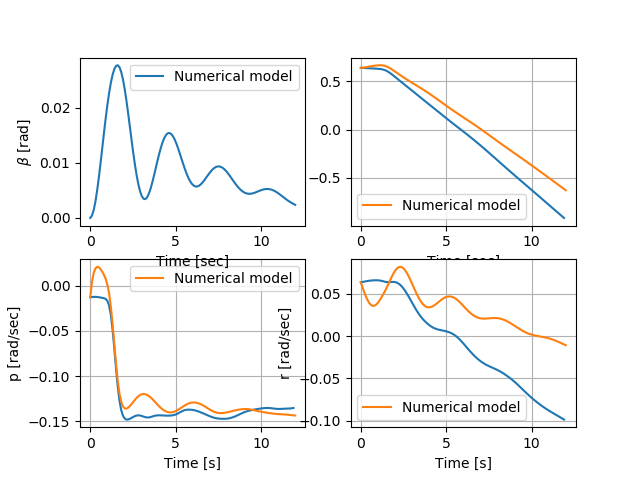
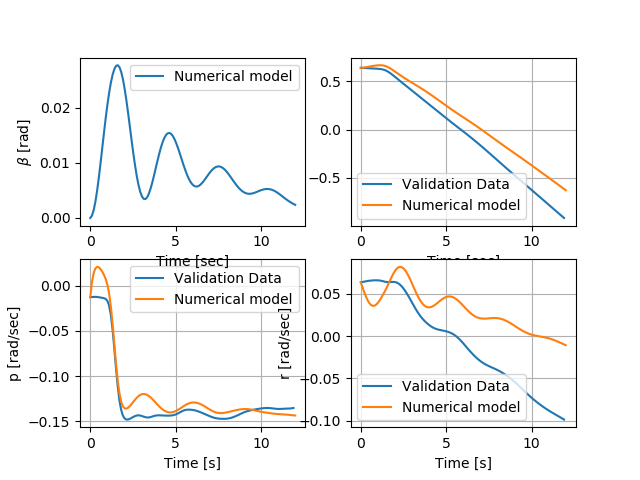
asd

Changed region(s): [[0.2188, 0.5625, 0.4688, 0.6562], [0.5625, 0.3438, 0.8438, 0.4062], [0.5625, 0.7812, 0.8438, 0.8438]]

diff --git a/Simulation/statespace_asym.py b/Simulation/statespace_asym.py
@@ -7,7 +7,7 @@ import control.matlab as ml
 import matplotlib.pyplot as plt
 #from FD_CLCD import *
 from scipy import signal
-
+from flight_data_plots import *
 
 #delta_a = 1.
 #delta_r = 1.
@@ -42,36 +42,41 @@ sys_asym = signal.StateSpace(A_asym, B_asym, C_asym, D_asym)
 sys_asym2 = ml.ss(A_asym, B_asym, C_asym, D_asym)
 #print (sys_asym)
 
-t = np.linspace(0., 15, 150)
+t = np.linspace(0., 12, 120)
 u = np.zeros((len(t),2))
 for i in range (10):
     u[i,1] = 0.025
     u[i,0] = 0.
+u = np.column_stack((delta_a_input_aperiodic, delta_r_input_aperiodic))
 z,x,c = ml.lsim(sys_asym2, u, t)
-
+X0 = np.array([[0],[roll_angle_d1[lst_element[0]]],[body_roll_rate_d1[lst_element[0]]],[body_yaw_rate_d1[lst_element[0]]]])
+z =  z*-1
 #yout, T = ml.impulse(sys_sym2)
 
 plt.subplot(2, 2, 1)
-plt.plot(t, (z[:,0]))
+plt.plot(t, (z[:,0]), label='Numerical model')
 plt.xlabel('Time [sec]')
 plt.ylabel(r'$\beta$ [rad]')
+plt.legend()
 
 plt.subplot(2, 2, 2)
-plt.plot(t, (z[:,1]))
+plt.plot(t, (z[:,1]+X0[1]), label='Numerical model')
 plt.xlabel('Time [sec]')
 plt.ylabel(r'$\varphi$ [rad]')
+plt.legend()
 
 plt.subplot(2, 2, 3)
-plt.plot(t, (z[:,2]))
+plt.plot(t, (z[:,2]+X0[2]), label='Numerical model')
 plt.xlabel('Time [s]')
 plt.ylabel('p [rad/sec]')
+plt.legend()
 
 plt.subplot(2, 2, 4)
-plt.plot(t, (z[:,3]))
+plt.plot(t, (z[:,3]+X0[3]), label='Numerical model')
 plt.xlabel('Time [s]')
 plt.ylabel('r [rad/sec]')
-
+plt.legend()
 
 
 plt.show()
-plt.savefig('asym.png')
+plt.savefig('asym-aperiodic.png')

diff --git a/Simulation/Cit_par_updated.py b/Simulation/Cit_par_updated.py
@@ -2,7 +2,7 @@
 from math import *
 # xcg = 0.25 * c
 from FD_CLCD import e, CD0, CLa, CL, CD #For Stationary Part
-from flight_data import time_d, V_tas_d, V_cas_d, roll_angle_d, pitch_angle_d, body_roll_rate_d, body_pitch_rate_d, body_yaw_rate_d, hp_d, m_d #For stationary meas during dynamic part
+from flight_data import time_d, V_tas_d, V_cas_d, roll_angle_d, pitch_angle_d, body_roll_rate_d, body_pitch_rate_d, body_yaw_rate_d, hp_d, m_d, CL_d, CD_d #For stationary meas during dynamic part
 
 motion_names = ["Zeros as input", "Aperiodic Roll", "Short Period", "Phugoid", "Dutch Roll", "Dutch Roll with Yaw Damper", "Spiral"]
 
@@ -99,8 +99,8 @@ depsda = 4 / (A + 2)            # Downwash gradient [ ]
 
 # Lift and drag coefficient
 
-CL =  CL[i]       # Lift coefficient [ ]
-CD =  CD[i]       # Drag coefficient [ ]
+CL =  CL_d[i]       # Lift coefficient [ ]
+CD =  CD_d[i]       # Drag coefficient [ ]
 
 #--------------------------------------------------------
 

diff --git a/Simulation/statespace_sym.py b/Simulation/statespace_sym.py
@@ -47,14 +47,14 @@ sys_sym2 = ml.ss(A_sym, B_sym, C_sym, D_sym)
 eig = np.linalg.eig(A_sym)
 #print (sys_sym)
 
-t = np.linspace(0., 170, 1700)
+t = np.linspace(0., 15, 150)
 u = np.zeros(len(t))
 for i in range (20):
     u[i] = -0.006
 
 """Initial conditions"""
-X0 = np.array([[V_tas_d1[lst_element[2]]],[AoA_d1[lst_element[2]]],[pitch_angle_d1[lst_element[2]]],[body_pitch_rate_d1[lst_element[2]]]])
-z,x,c = ml.lsim(sys_sym2, delta_e_input_phugoid, t)
+X0_phugoid = np.array([[V_tas_d1[lst_element[2]]],[AoA_d1[lst_element[2]]],[pitch_angle_d1[lst_element[2]]],[body_pitch_rate_d1[lst_element[2]]]])
+z,x,c = ml.lsim(sys_sym2, delta_e_input_short, t)
 
 
 #yout, T = ml.impulse(sys_sym2)
@@ -65,7 +65,7 @@ plt.xlabel('Time [sec]')
 plt.ylabel('Velocity V_tas')
 
 plt.subplot(2, 2, 3)
-plt.plot(t, (z[:,1]+ X0[1]-0.015))
+plt.plot(t, (z[:,1]+ X0_phugoid[1]-0.015))
 plt.xlabel('Time [sec]')
 plt.ylabel('Angle of Attack [rad]')
 

diff --git a/Simulation/statespace_asym_spiral.py b/Simulation/statespace_asym_spiral.py
@@ -42,14 +42,15 @@ sys_asym = signal.StateSpace(A_asym, B_asym, C_asym, D_asym)
 sys_asym2 = ml.ss(A_asym, B_asym, C_asym, D_asym)
 #print (sys_asym)
 
-t = np.linspace(0., 12, 120)
+t = np.linspace(0., 100, 1000)
 u = np.zeros((len(t),2))
 for i in range (10):
     u[i,1] = 0.025
     u[i,0] = 0.
-u = np.column_stack((delta_a_input_dutch_yaw, delta_r_input_dutch_yaw))
+u = np.column_stack((delta_a_input_spiral, delta_r_input_spiral))
 z,x,c = ml.lsim(sys_asym2, u, t)
-X0 = np.array([[0],[roll_angle_d1[lst_element[4]]],[body_roll_rate_d1[lst_element[4]]],[body_yaw_rate_d1[lst_element[4]]]])
+#X0 = np.array([[0],[roll_angle_d1[lst_element[5]]],[body_roll_rate_d1[lst_element[5]]],[body_yaw_rate_d1[lst_element[5]]]])
+X0 = np.array([[0],[0],[0],[0]])
 z =  z*-1
 #yout, T = ml.impulse(sys_sym2)
 
@@ -79,4 +80,4 @@ plt.legend()
 
 
 plt.show()
-plt.savefig('asym-dutchyaw.png')
+plt.savefig('asym-spiral.png')
